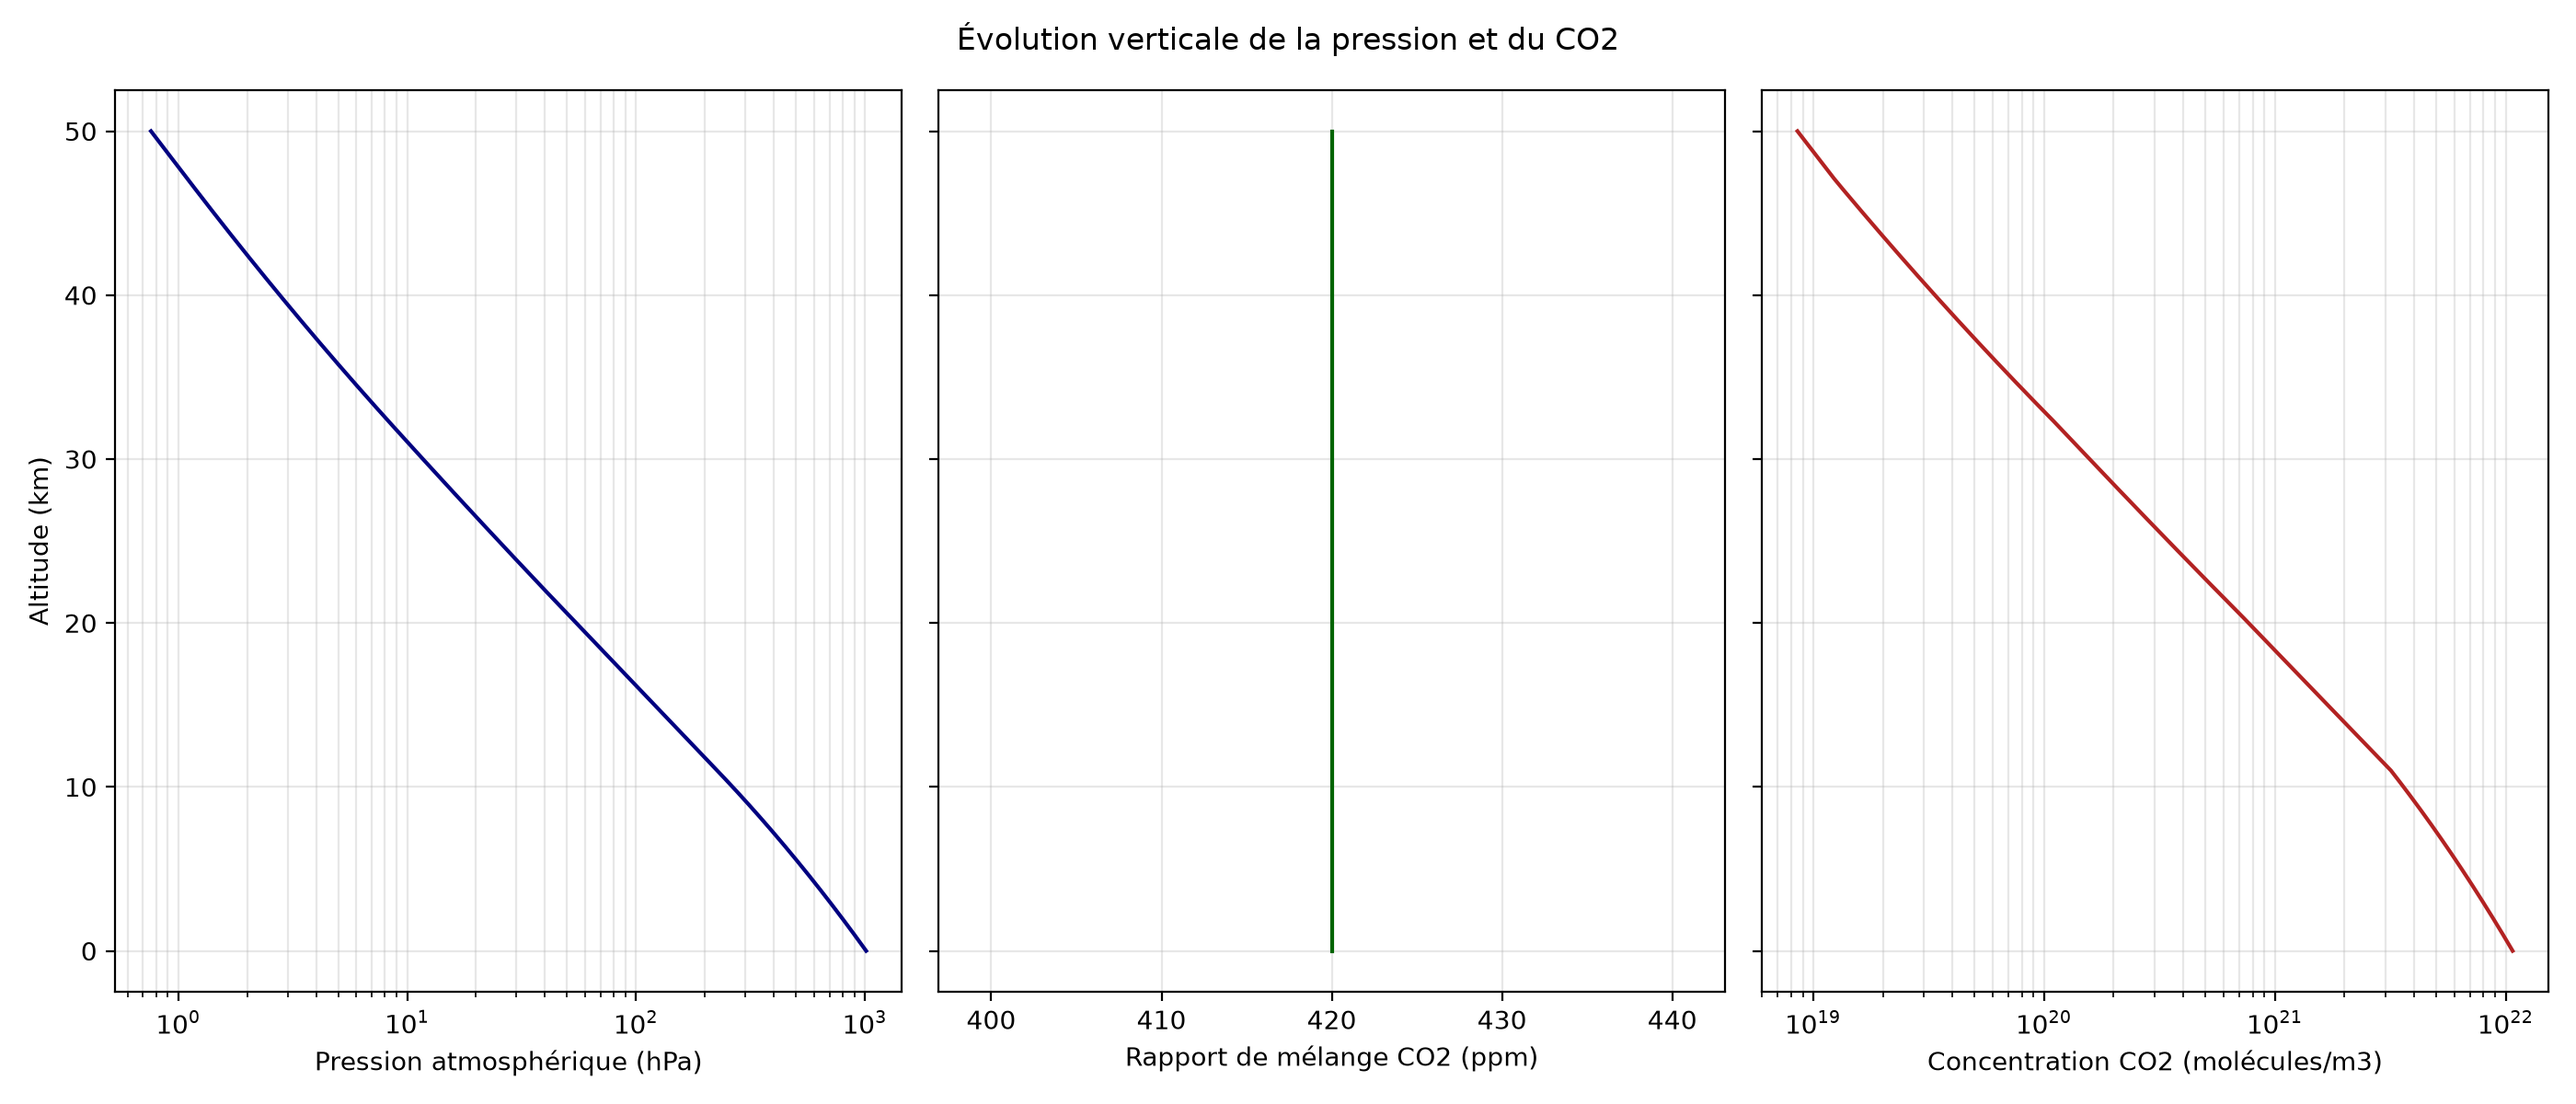
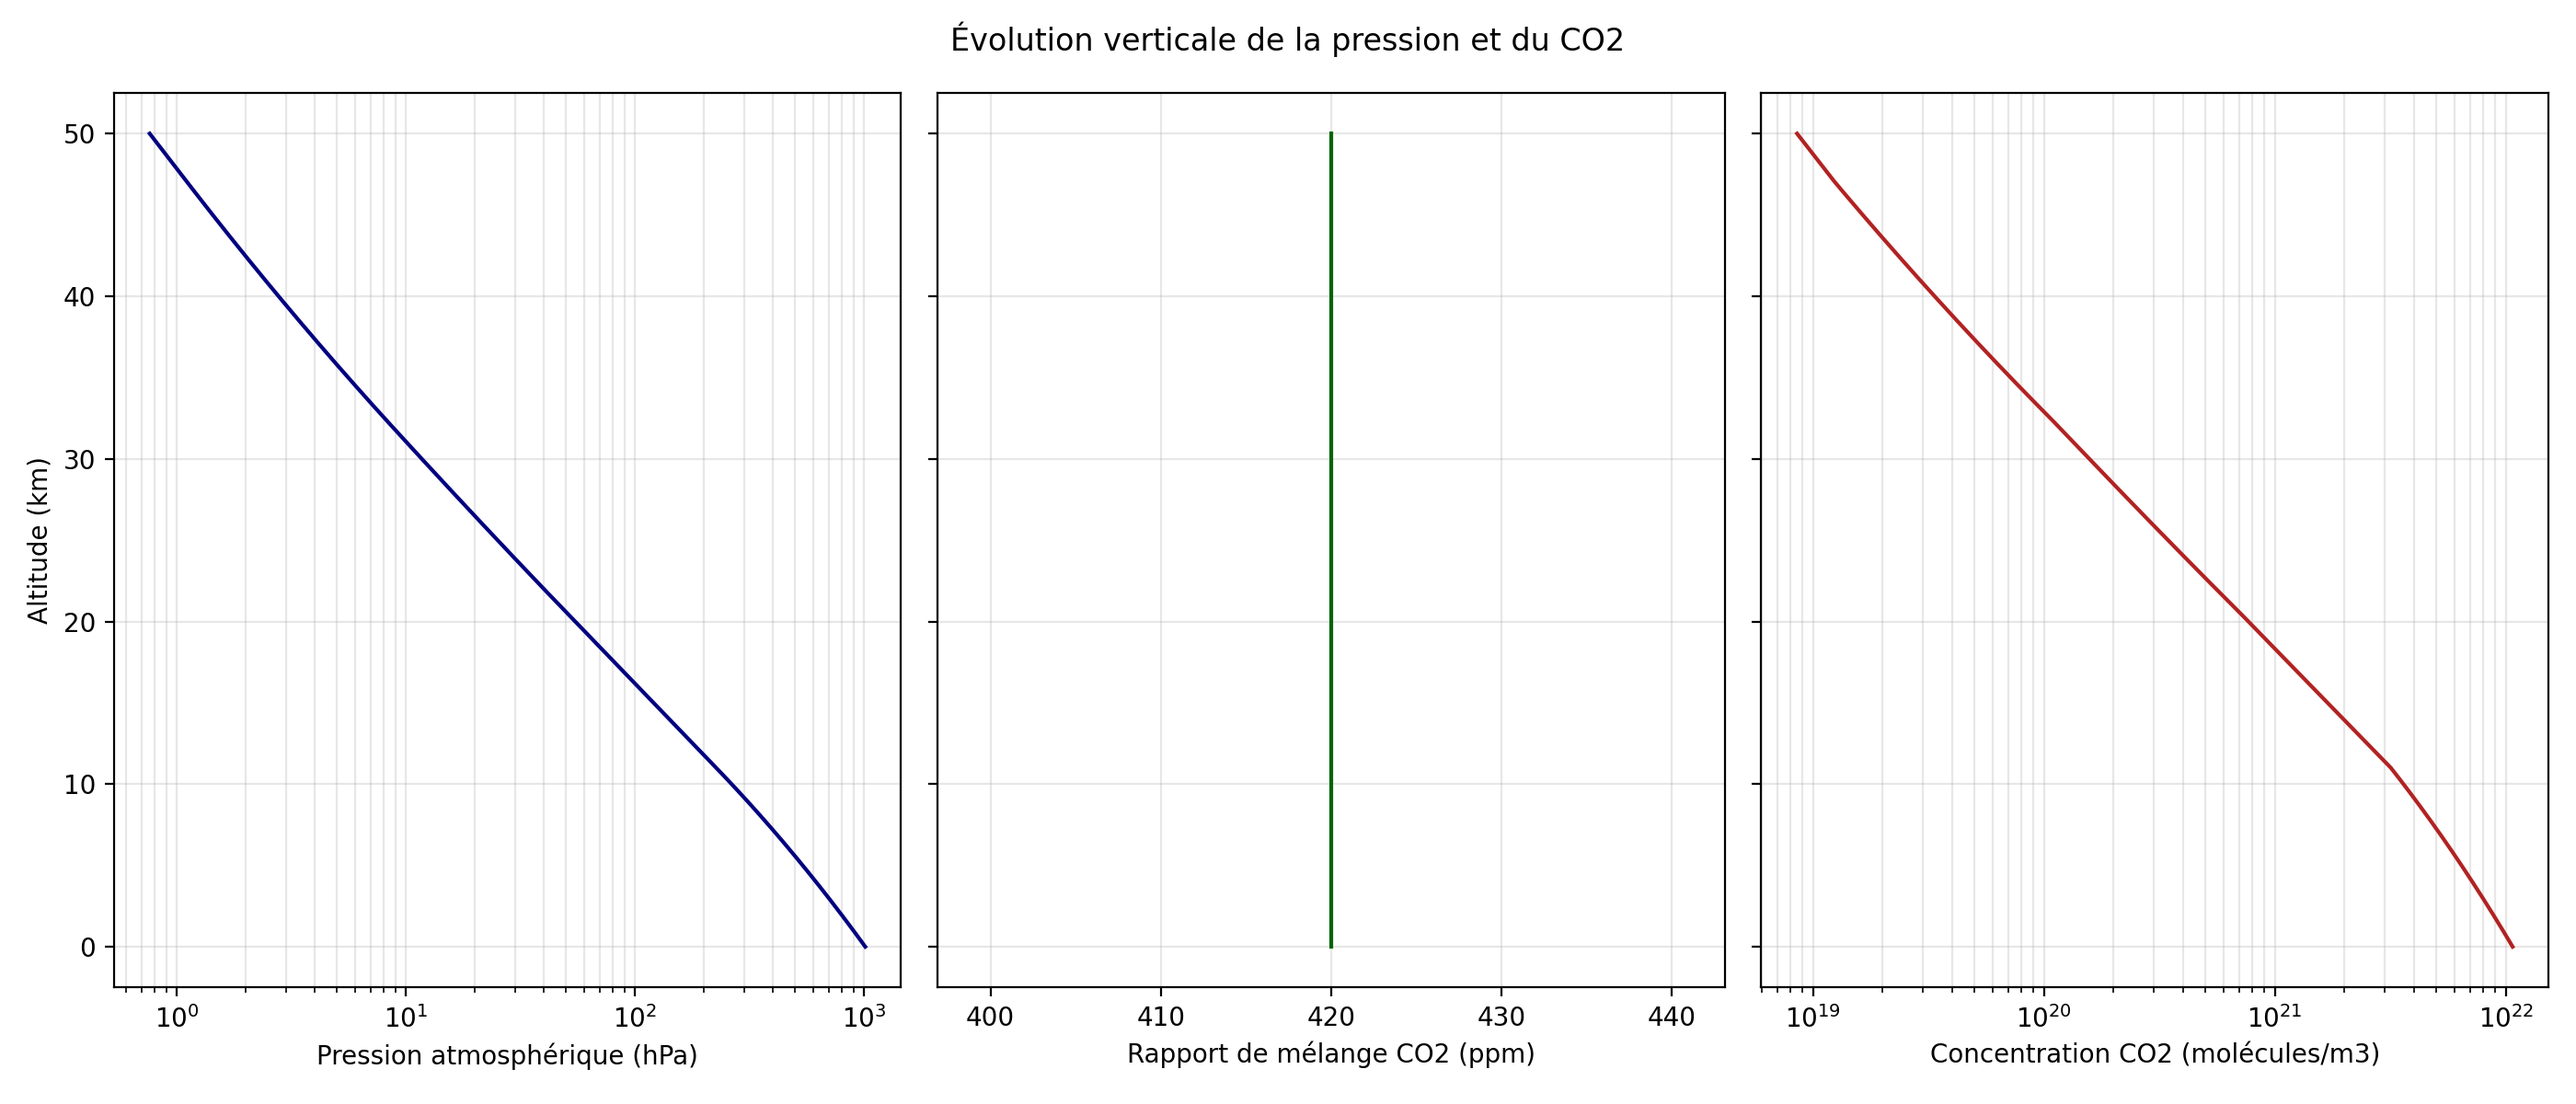
README

diff --git a/modele2/README.md b/modele2/README.md
@@ -26,7 +26,7 @@ python modele2/ressources/profil_vertical_atmosphere_co2.py --no-plot
 | --- | --- |
 | `codes_python/` | Noyau radiatif de la colonne à six couches. |
 | `ressources/` | Générateur du profil vertical et ses données produites. |
-| `requirements.txt` | Dépendances `numpy` et `matplotlib`. |
-| `README.md` | Présentation et commandes principales. |
+
+
 
 Chaque sous-dossier possède son propre README pour les détails d'utilisation.
